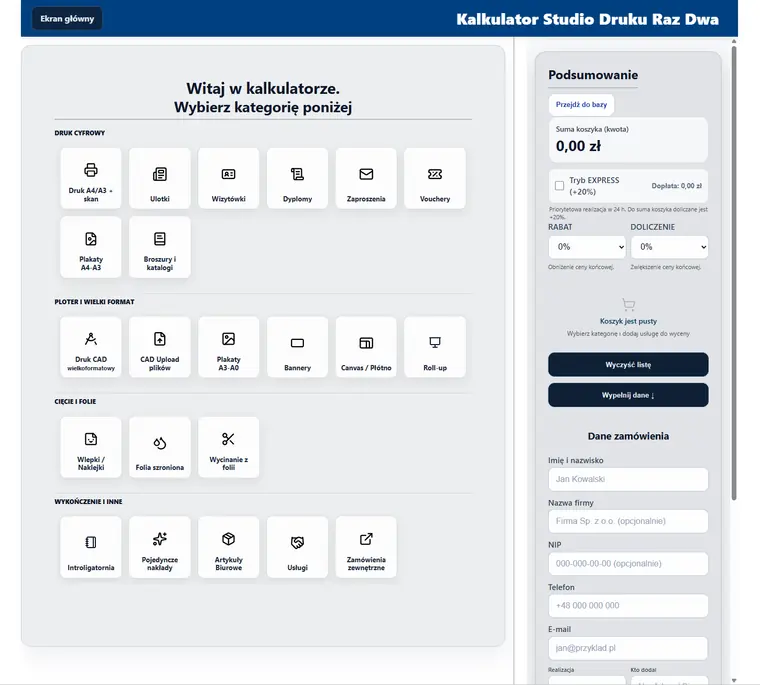
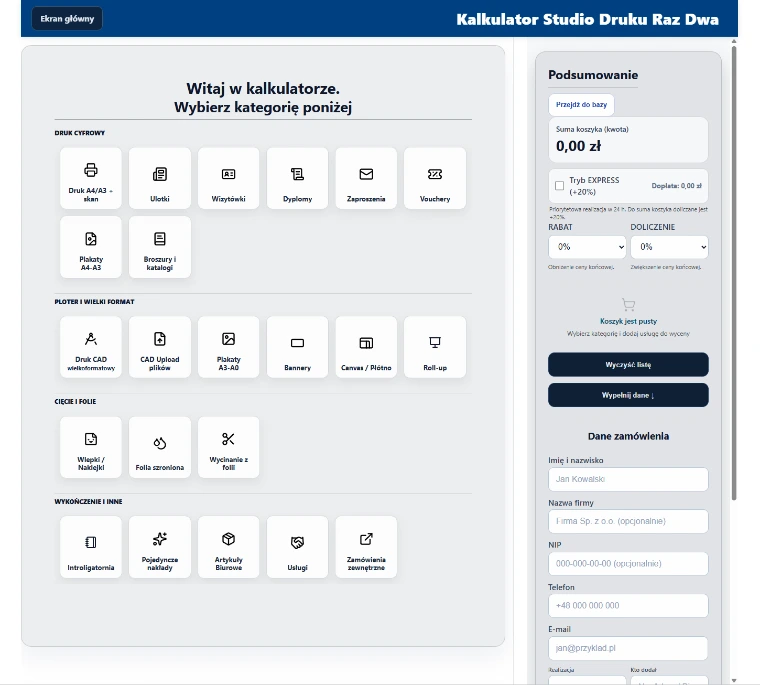
uslugi: wyższa jakość miniatur 'Przykład z realizacji'
Dotychczasowe miniatury były renderowane przez ImageMagick, którego koder
WebP w tym środowisku ignoruje -quality (q40 == q99) i dawał stałą, niską
jakość — widoczną 'kaszanę' na zrzutach z drobnym tekstem (kalkulator Raz Dwa,
strona Power of Mind). Przekodowano enkoderem WebP w Chromium (canvas, q0.92)
z oryginalnych źródeł:
- karoma-front (źródło KAROMA_FRONT.webp 800x682)
- ekran-razdwa (źródło Ekran_RAZDWA_KWdesign.webp 1450x1306)
- powerofmind-front (źródło POWEROFMIND_FRONT.png 1144x975, odzyskane z historii)

Dodano większe warianty do srcset, żeby ekrany retina/mobile (sizes 90vw)
nie skalowały w górę:
- ekran-razdwa-1140.webp (760->1140w)
- powerofmind-front-960.webp (640->960w)
Karoma pozostaje na 760w (limit źródła 800px).

Claude-Session: https://claude.ai/code/session_01FDrgWrTX28d6FTvvJmuBgA

diff --git a/uslugi.html b/uslugi.html
@@ -312,7 +312,7 @@
       <div class="service-proof">
         <span class="proof-label">Przykład z realizacji</span>
         <img class="proof-thumb" src="assets/images/razdwa/ekran-razdwa-760.webp"
-          srcset="assets/images/razdwa/ekran-razdwa-400.webp 400w, assets/images/razdwa/ekran-razdwa-760.webp 760w"
+          srcset="assets/images/razdwa/ekran-razdwa-400.webp 400w, assets/images/razdwa/ekran-razdwa-760.webp 760w, assets/images/razdwa/ekran-razdwa-1140.webp 1140w"
           sizes="(max-width: 1023px) 90vw, 360px"
           width="1450" height="1306" alt="Raz Dwa Druk — kalkulator wycen" loading="lazy">
         <p class="proof-desc">Drukarnia wyceniała zlecenia ręcznie — nawet ok. 60 minut na jedno zamówienie, z ryzykiem pomyłki. Aplikacja z kalkulatorem, koszykiem i eksportem PDF skróciła ten czas do ok. 5 minut. Zero kosztów stałych utrzymania.</p>
@@ -385,7 +385,7 @@
       <div class="service-proof">
         <span class="proof-label">Przykład z realizacji</span>
         <img class="proof-thumb" src="assets/images/power-of-mind/powerofmind-front-640.webp"
-          srcset="assets/images/power-of-mind/powerofmind-front-400.webp 400w, assets/images/power-of-mind/powerofmind-front-640.webp 640w"
+          srcset="assets/images/power-of-mind/powerofmind-front-400.webp 400w, assets/images/power-of-mind/powerofmind-front-640.webp 640w, assets/images/power-of-mind/powerofmind-front-960.webp 960w"
           sizes="(max-width: 1023px) 90vw, 360px"
           width="1144" height="975" alt="Power of Mind — platforma sprzedażowa" loading="lazy">
         <p class="proof-desc">Marka coachingowa potrzebowała platformy sprzedażowej — ale najpierw decyzji, na czym ją zbudować. Przetestowaliśmy trzy rozwiązania (Webflow, Wix, WordPress), wybraliśmy jedno. Klientka zarządza systemem samodzielnie od pierwszego dnia po wdrożeniu.</p>
